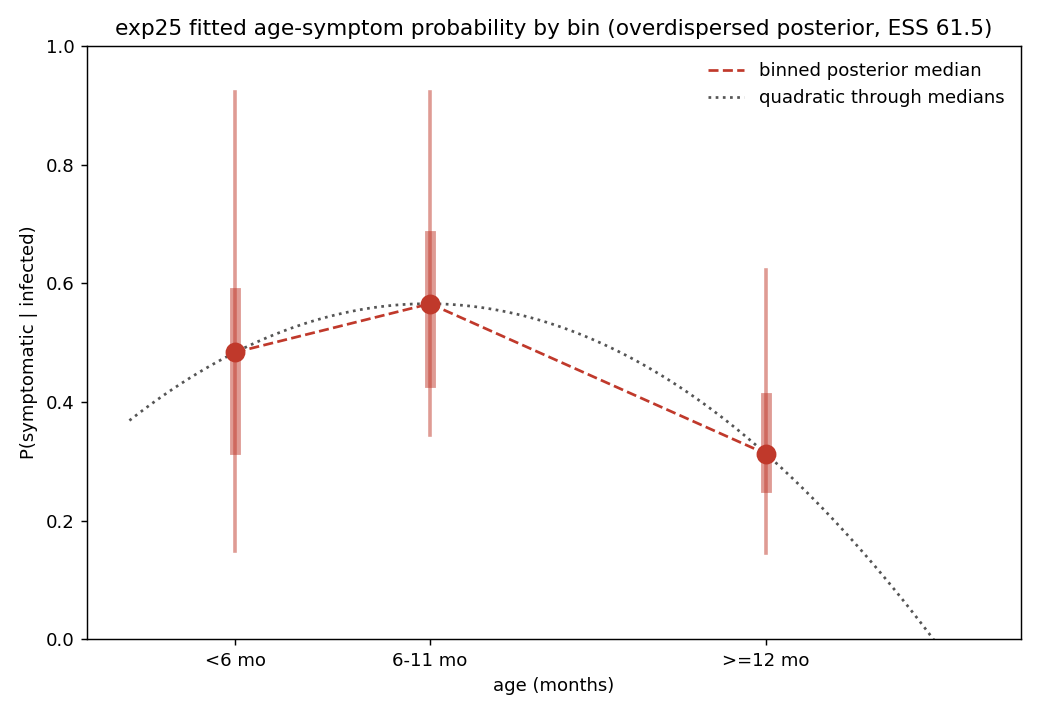
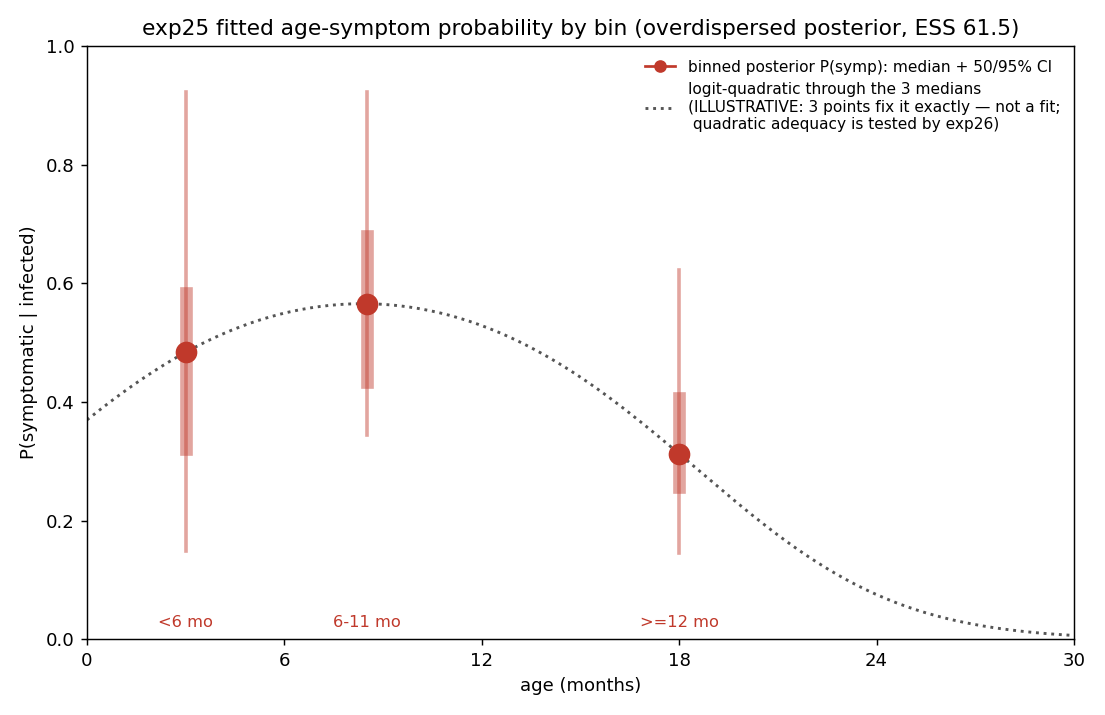
exp25: honest bin-symptom figure + soften quadratic-compatibility claim
The overlay quadratic was a tautology (3 bin medians -> exactly one parabola) and
was fit in probability space, not the model's logit space. Redo it in logit space,
label it ILLUSTRATIVE (not a fit), and reword the SUMMARY: the 3-bin shape carries
NO evidence on quadratic adequacy -- that is what exp26 tests.

diff --git a/calibration/experiments/25_age_binned_titer_fixedshape/SUMMARY.md b/calibration/experiments/25_age_binned_titer_fixedshape/SUMMARY.md
@@ -20,12 +20,14 @@ median **11.02 mo** (target 12.12) — the closest any model has come to the fir
 
 ![Posterior-predictive vs MAL-ED data — IR-by-age and repeat on target, first-infection KM tracking the data through ~15 mo](figures/predictions_vs_data_exp25.png)
 
-**But the fitted shape is quadratic-compatible — so the win may be the bug fix, not the binning.**
-The bin posterior medians are **0.48 / 0.57 / 0.31** (<6 / 6–11 / ≥12 mo): a peak at 6–11 mo,
-and a quadratic drawn through those three medians fits them almost perfectly. The binned model did
-*not* discover a non-parabolic shape the quadratic couldn't make.
+**But the fitted shape does not *rule out* a quadratic — so the win may be the bug fix, not the
+binning.** The bin posterior medians are **0.48 / 0.57 / 0.31** (<6 / 6–11 / ≥12 mo): a 6–11mo
+peak. CAVEAT: with only 3 bins, a quadratic passes through the 3 medians *exactly* (3 points fix a
+parabola), so this is **not** evidence the quadratic form is adequate — only that the binned shape
+isn't grossly non-parabolic. Whether a quadratic actually reproduces the *full* fit is what exp26
+tests; it is not shown by the overlay below.
 
-![Fitted P(symptomatic) per age bin — a 6–11mo peak that a quadratic can reproduce](figures/bin_symptom_posterior.png)
+![Fitted P(symptomatic) per age bin (6–11mo peak); dotted logit-quadratic through the 3 medians is illustrative only — 3 points fix it exactly, not a fit](figures/bin_symptom_posterior.png)
 
 ## Observations
 
@@ -44,17 +46,19 @@ and a quadratic drawn through those three medians fits them almost perfectly. Th
 4. **First-infection timing essentially resolved.** Model KM tracks the data through ~15 mo and
    crosses S=0.5 near the 12-mo target; only the 30+ mo tail slightly over-infects. This is the
    target that defeated every prior fit.
-5. **The shape is peaked and parabola-compatible** (0.48/0.57/0.31), with wide individual bin CIs
-   (the NROY constrains β×p_symp combinations, not single bins — see `constrained_dims`: PC1 60%,
-   PC2 21%).
+5. **The shape is a 6–11mo peak** (0.48/0.57/0.31) with wide individual bin CIs (the NROY
+   constrains β×p_symp combinations, not single bins — see `constrained_dims`: PC1 60%, PC2 21%).
+   With only 3 bins a quadratic trivially interpolates the 3 medians, so the *form's* adequacy is
+   not testable from this — it is deferred to exp26.
 
 ## Acceptance
 
 **Usable downstream** as the age member of the exp-20 VE comparison — the first age variant to
 fit all five MAL-ED targets with a non-degenerate ESS. But the *scientific* claim "the quadratic
 was over-constraining" is **not yet established**: exp 25 changed two things vs exp 23 (binned
-symptoms **and** the corrected maternal), and the fitted shape is quadratic-compatible, pointing
-to the maternal bug fix as the likelier driver.
+symptoms **and** the corrected maternal), and the 3-bin fitted shape does not rule out a quadratic
+(a parabola interpolates 3 medians exactly), so it carries no evidence on the form question —
+exp 26 settles that.
 
 ## Next
 
